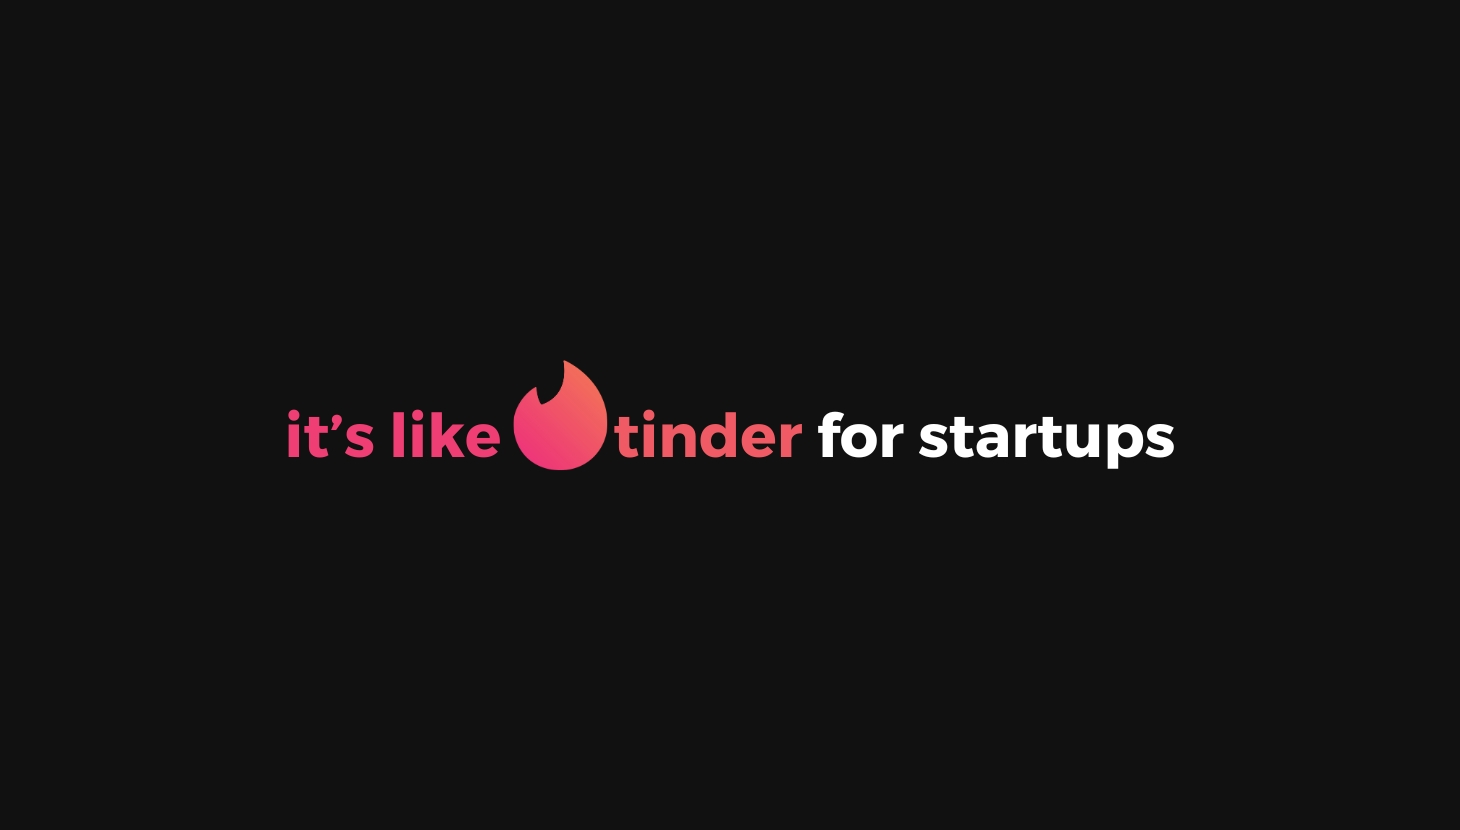
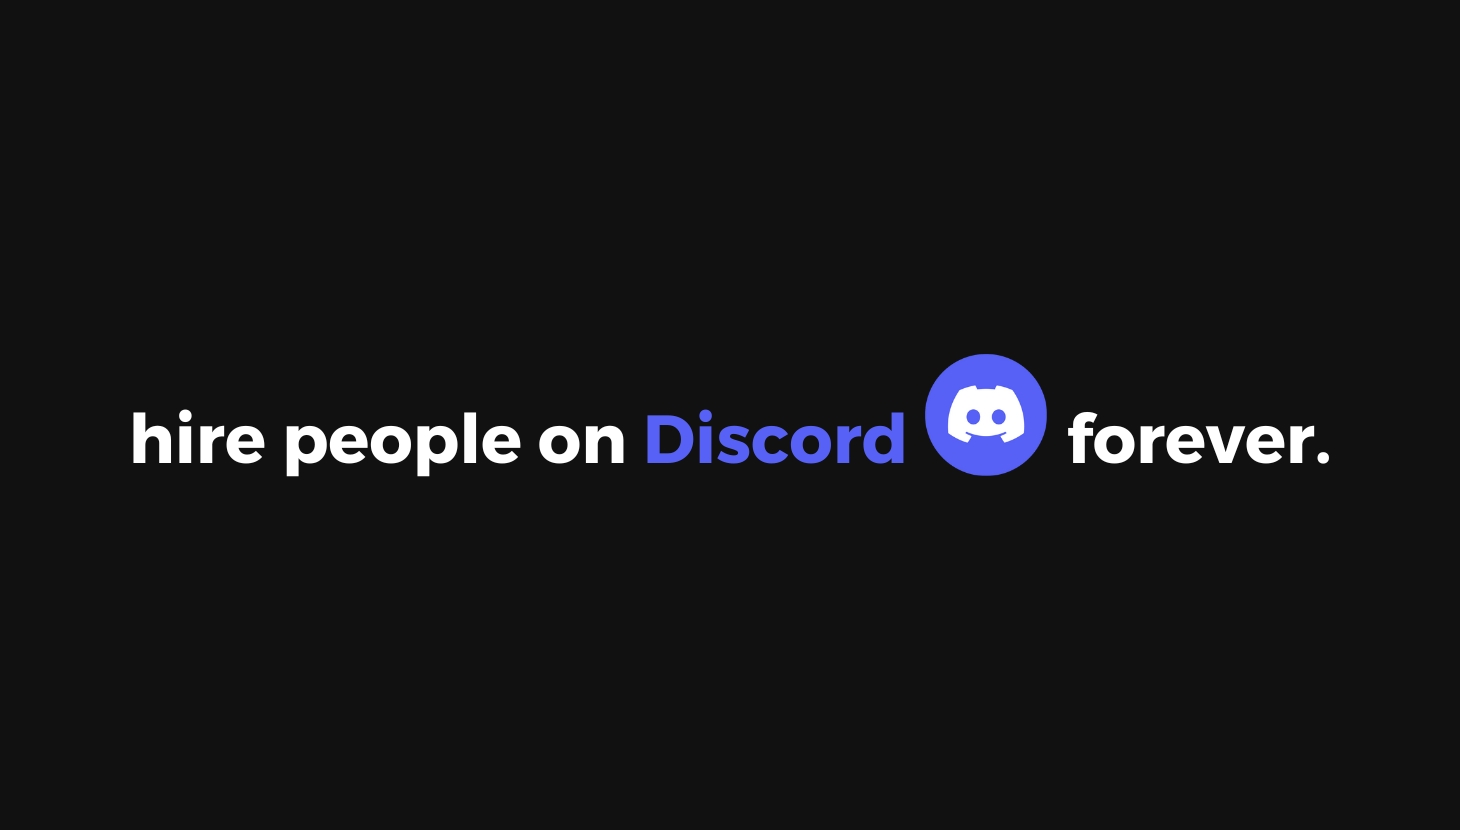
👤

Changed region(s): [[0.0925, 0.4217, 0.9247, 0.5723]]

diff --git a/dist/index.html b/dist/index.html
@@ -3,16 +3,16 @@
   <head>
     <meta charset="UTF-8" />
     <title>learnmutiny.io</title>
-    <meta content="it's like Tinder for startups" name="description" />
+    <meta content="hire people on Discord forever." name="description" />
     <meta content="learnmutiny.io" property="og:title" />
-    <meta content="it's like Tinder for startups" property="og:description" />
+    <meta content="hire people on Discord forever." property="og:description" />
     <meta
       content="https://learnmutiny.io/assets/descript-Dl3RTAZr.jpg"
       property="og:image"
     />
     <meta content="learnmutiny.io" property="twitter:title" />
     <meta
-      content="it's like Tinder for startups"
+      content="hire people on Discord forever."
       property="twitter:description"
     />
     <meta
@@ -24,7 +24,7 @@
     <meta name="viewport" content="width=device-width, initial-scale=1.0" />
     <meta
       name="keywords"
-      content="startups, tech, learn, mutiny, tinder, swipe, learnmutiny, learnmutiny.io"
+      content="discord,startups, tech, learn, mutiny, tinder, swipe, learnmutiny, learnmutiny.io"
     />
     <meta
       name="google-site-verification"
@@ -40,7 +40,7 @@
     <link rel="preconnect" href="https://fonts.googleapis.com" />
     <link rel="preconnect" href="https://fonts.gstatic.com" crossorigin />
     <script type="module" crossorigin src="/assets/index-BdjkdU96.js"></script>
-    <link rel="stylesheet" crossorigin href="/assets/index-d1nBA8ma.css">
+    <link rel="stylesheet" crossorigin href="/assets/index-d1nBA8ma.css" />
   </head>
   <body>
     <div id="root"></div>
